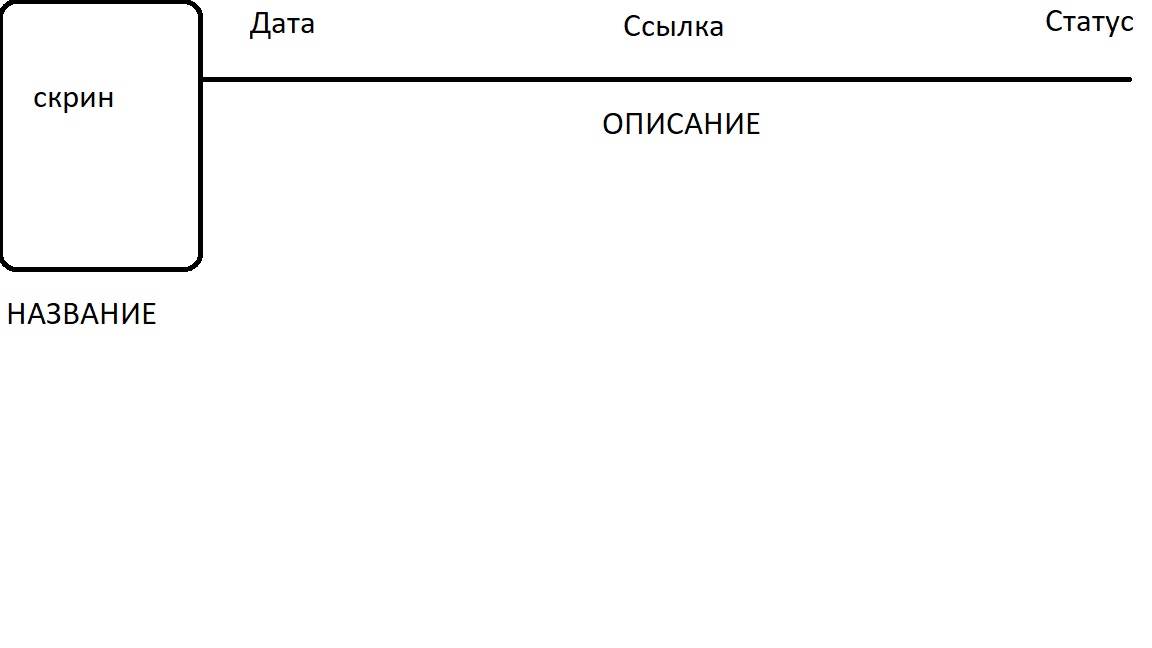
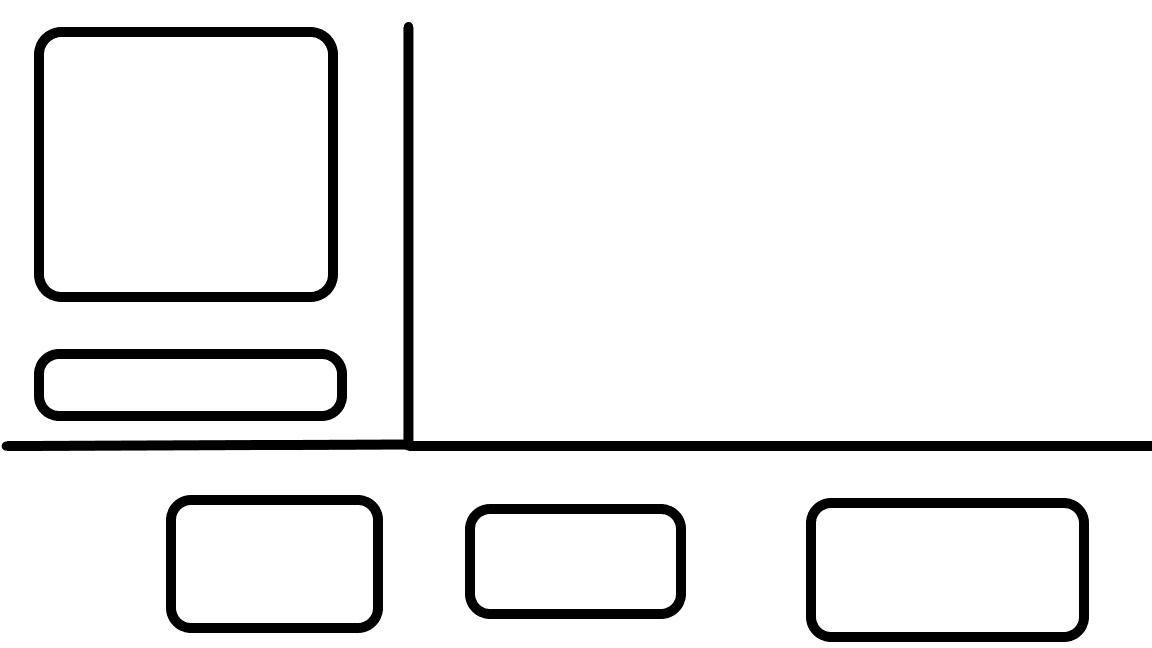
сделать прверку

diff --git a/templates/index.html b/templates/index.html
@@ -2,7 +2,7 @@
 <html lang="ru">
 <head>
     <meta charset="UTF-8">
-<!--    <meta charset="windows-1251">-->
+    <!--    <meta charset="windows-1251">-->
     <meta http-equiv="X-UA-Compatible" content="IE=edge">
     <link rel="stylesheet" href="style.css">
     <link rel="stylesheet" type="text/css" href="../static/normalize.css">
@@ -13,24 +13,38 @@
     </style>
 </head>
 <body class="test">
-        {% for value in values %}
-        {% set name, path_image, date, url, status, desc = value[1], value[2], value[3], value[4], value[5], value[6] %}
+{% for value in values %}
+{% set name, path_image, date, url, status, desc = value[1], value[2], value[3], value[4], value[5], value[6] %}
 
-    <div class="main_div flex">
+<div class="main_div flex reset">
 
-        <div class="left_div flex">
-        <img src="{{path_image}}" alt="{{name}}">
-        <h1>{{ name  }}</h1>
+    <div class="up_main">
+        <div class="left_div_up flex item">
+            <img src="{{path_image}}" alt="{{name}}">
+            <h1 class="reset">{{ name }}</h1>
+            <a href="{{ url }}" class="btn">Перейти к закладке</a>
         </div>
-        <div class="up_section">
-            <p>{{ date }}</p>
-            <p>{{ url }}</p>
-            <p>{{ status }}</p>
-        </div>
-        <div class="down_section">
-            <p>{{ desc }}</p>
+
+        <div class="right_div_up flex">
+            <div class="left_text_side">
+                <p class="parag">Название</p>
+                <p class="parag">Дата создания</p>
+                <p class="parag">Статус</p>
+            </div>
+            <div class="right_text_side">
+                <p class="parag">{{ name }}</p>
+                <p class="parag">{{ date }}</p>
+                <p class="parag">{{ status }}</p>
+            </div>
+            
+            
         </div>
     </div>
+
+    <div class="down_section">
+        <p>{{ desc }}</p>
+    </div>
+</div>
 
 {% endfor %}
 </body>

diff --git a/static/style.css b/static/style.css
@@ -1,11 +1,39 @@
-.flex {
+/* .flex {
 display: flex;
-}
+} */
 
 .main_div {
-    width: 1366px;
-  align-items: center;
-  justify-content: center;
+    /* flex-direction: row; */
+    max-width: 1310px;
+    margin-right: auto;
+    margin-left: auto;
+    margin-top: 25px;
+    padding: 25px;
+
+    background-color: white;
+}
+
+.btn {
+    display: block;
+    width: 210px;
+    margin: 0;
+    margin: 5px;
+    padding: 0;
+    padding: 5px;
+
+    text-decoration: none;
+    border: none;
+    font-size: 20px;
+    color: white;
+    background-color: #ff2b24;
+    text-align: center;
+    /* border: 1px solid #ff2b24; */
+    cursor: pointer; 
+} 
+
+h1 {
+    margin: 0;
+    padding: 0;
 }
 
 p {
@@ -13,7 +41,72 @@ p {
     padding: 0;
 }
 
-.up_section {
+.parag {
+    width: 75px;
+    white-space: nowrap;
+
+    color: rgba(0,0,0,.6)
+}
+
+img {
+    width: 250px;
+    height: 350px;
+}
+
+.up_main {
+    width: 1310px;
+
     display: flex;
     flex-direction: row;
+    /* align-content: center; */
+}
+
+
+.item {
+    width: 100%;
+}
+
+body {
+background-color: #e9ebee;
+font-family: -apple-system,BlinkMacSystemFont,"Segoe UI",Roboto,"Helvetica Neue",Arial,sans-serif,"Apple Color Emoji","Segoe UI Emoji","Segoe UI Symbol";
+font-size: 1rem;
+line-height: 1.5;
+}
+
+.left_div_up {
+    /* flex-direction: column; */
+
+    width: 250px;
+}
+
+.right_div_up {
+    display: flex;
+    flex-direction: row;
+    margin: 0;
+    padding: 0;
+
+    margin-left: 20px;
+    width: 1086px;
+}
+
+
+.left_text_side {
+    margin: 0;
+    padding: 0;
+
+    margin-left: 15px;
+    margin-top: 15px;
+    margin-right: 350px;
+}
+
+.right_text_side {
+    margin: 0;
+    padding: 0;
+    margin-top: 15px;
+
+    color: #212529;
+}
+
+.down_section {
+    width: 1310px;
 }
